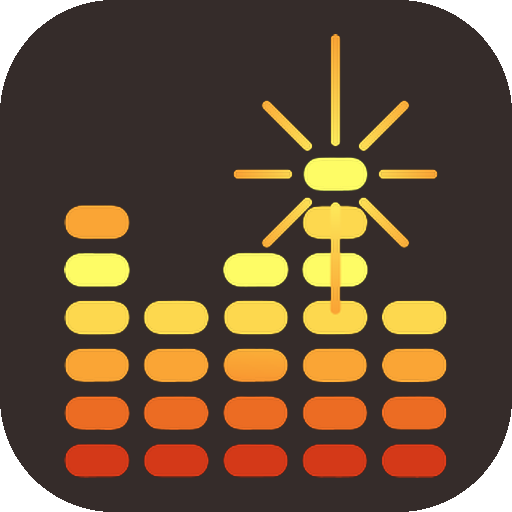
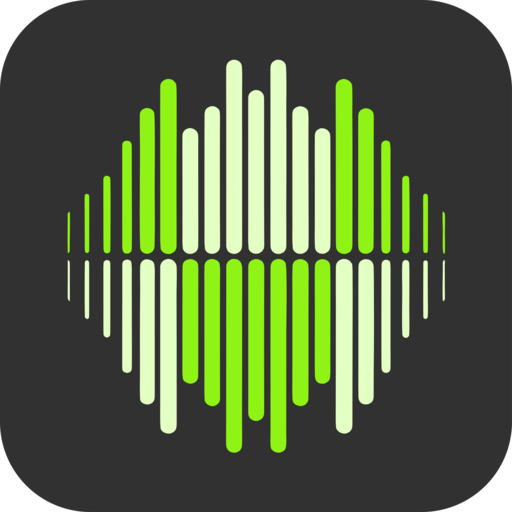
Finish becoming Title Track
The name lands everywhere it is user-visible or structural: the launcher
label, the activity theme, the Gradle project, the About screen, the README,
and the ISFT tag written into every WAV — which matters more than the rest,
because that one is stamped into files already on disk and read by whatever
opens them later.

The launcher artwork comes with it, on a slightly cooler ground.

The Android package stays de.singular.recorder. It is an installed app's
identity, not its name: changing it would orphan every copy already on a
device, along with the folder grant and preferences that hang off it. There
is nothing to gain that a label does not already do.

diff --git a/app/src/main/java/de/singular/recorder/audio/Gain.kt b/app/src/main/java/de/singular/recorder/audio/Gain.kt
@@ -19,7 +19,7 @@ enum class NormalizeMode { PEAK, LOUDNESS }
 /**
  * Level maths for normalising a take: measure it, decide on a gain, apply it to 16-bit PCM.
  *
- * Nothing here knows about files. Spark Plug plays takes straight off storage through the system
+ * Nothing here knows about files. Title Track plays takes straight off storage through the system
  * player, so unlike a mixer's fader this gain has to be written into the audio itself — see
  * [de.singular.recorder.storage.RecordingStore.normalize] for where that happens.
  */

diff --git a/app/src/main/java/de/singular/recorder/ui/AboutScreen.kt b/app/src/main/java/de/singular/recorder/ui/AboutScreen.kt
@@ -22,7 +22,7 @@ fun AboutScreen(modifier: Modifier = Modifier) {
             .verticalScroll(rememberScrollState())
             .padding(20.dp),
     ) {
-        Text("Spark Plug", style = MaterialTheme.typography.headlineSmall)
+        Text("Title Track", style = MaterialTheme.typography.headlineSmall)
         Text(
             "Version ${BuildConfig.VERSION_NAME}",
             style = MaterialTheme.typography.bodyMedium,

diff --git a/app/src/main/java/de/singular/recorder/audio/Waveform.kt b/app/src/main/java/de/singular/recorder/audio/Waveform.kt
@@ -164,7 +164,7 @@ class PeakBuckets(private val buckets: Int, totalFrames: Long) {
     }
 
     /**
-     * Mono is what Spark Plug records; anything else collapses to its loudest channel, which keeps
+     * Mono is what Title Track records; anything else collapses to its loudest channel, which keeps
      * a stereo import from drawing at half height.
      */
     private fun advance(frame: Float) {

diff --git a/app/src/main/java/de/singular/recorder/audio/Wav.kt b/app/src/main/java/de/singular/recorder/audio/Wav.kt
@@ -151,7 +151,7 @@ object Wav {
             }
         }
         if (comment.isNotEmpty()) body.infoField("ICMT", comment)
-        body.infoField("ISFT", "SparkPlug")
+        body.infoField("ISFT", "TitleTrack")
         val bodyBytes = body.toByteArray()
 
         val out = ByteArrayBuilder(bodyBytes.size + 8)

diff --git a/README.md b/README.md
@@ -1,6 +1,6 @@
 <h1>
-  <img src="docs/icon.png" alt="Spark Plug icon" height="52" align="middle" />
-  Spark Plug
+  <img src="docs/icon.png" alt="Title Track icon" height="52" align="middle" />
+  Title Track
 </h1>
 
 An Android recorder for instruments rather than for voice memos. Count yourself in at a tempo you
@@ -118,7 +118,7 @@ are buttons above the transport where they can be seen rather than remembered.
 
 Normalising lifts a quiet take, and does it **in the file**. Takes are played straight off storage
 by the system player, so there is no signal path to hang a fader on; and a level that existed only
-inside Spark Plug would go missing from every copy shared out of it. So it asks two things, one at
+inside Title Track would go missing from every copy shared out of it. So it asks two things, one at
 a time. First how loud:
 
 - **Peak** scales until the loudest moment sits at full scale. It cannot distort, and it cannot
@@ -131,7 +131,7 @@ Then where it goes: **overwrite this take**, which has no undo and says so, or *
 copy** beside it, which leaves the original alone. Either way the player switches to whatever now
 holds the normalised audio, so you hear what you asked for rather than having to go and find it.
 
-A take Spark Plug recorded is 16-bit PCM WAV, and is scaled sample for sample: two passes over the
+A take Title Track recorded is 16-bit PCM WAV, and is scaled sample for sample: two passes over the
 file, measuring and then scaling, with the header copied through byte for byte so the tempo and
 title survive. An overwrite goes to a cache file and replaces the original only once it is
 complete, so a failure part-way leaves the take as it was; a copy needs none of that, because the

diff --git a/CHANGELOG.md b/CHANGELOG.md
@@ -4,6 +4,9 @@
 
 First cut: recording and take management.
 
+- The app is **Title Track**, and its icon is a mirrored waveform in two greens on a dark ground.
+  The lime from it is the accent throughout.
+
 - Record to a folder of your choosing (Storage Access Framework tree grant), as 44.1 kHz mono WAV.
 - Count-in of 0, 1 or 2 bars at a settable tempo, with an accented downbeat.
 - Done → Save, and a Restart that wipes the take and counts back in. Save writes straight
@@ -41,9 +44,9 @@ First cut: recording and take management.
   System/Light/Dark theme.
 - The record colour is derived from the accent rather than fixed, so the two stay a matched pair —
   per theme, and deeper the closer the accent comes to red, so the two can never merge.
-- A darker accent in light mode: the icon's orange rather than its yellow. The accent is a text
-  colour as well as a button fill, and the yellow measured 1.6:1 on a white page — invisible. The
-  orange, darkened, reads at 4.8:1.
+- A darker accent in light mode: the icon's lime, darkened to a green that holds its hue. The
+  accent is a text colour as well as a button fill, and the lime measures 1.4:1 on a white page —
+  invisible. The green reads at 4.9:1, with white on it at 5.1:1.
 - While keep-screen-on is active an indicator sits in the app bar; tapping it explains the battery
   cost and offers a way to turn it off (as in RubberRing).
 - Compact bottom tabs, and a library list of even rows with dividers and accented folder icons.
